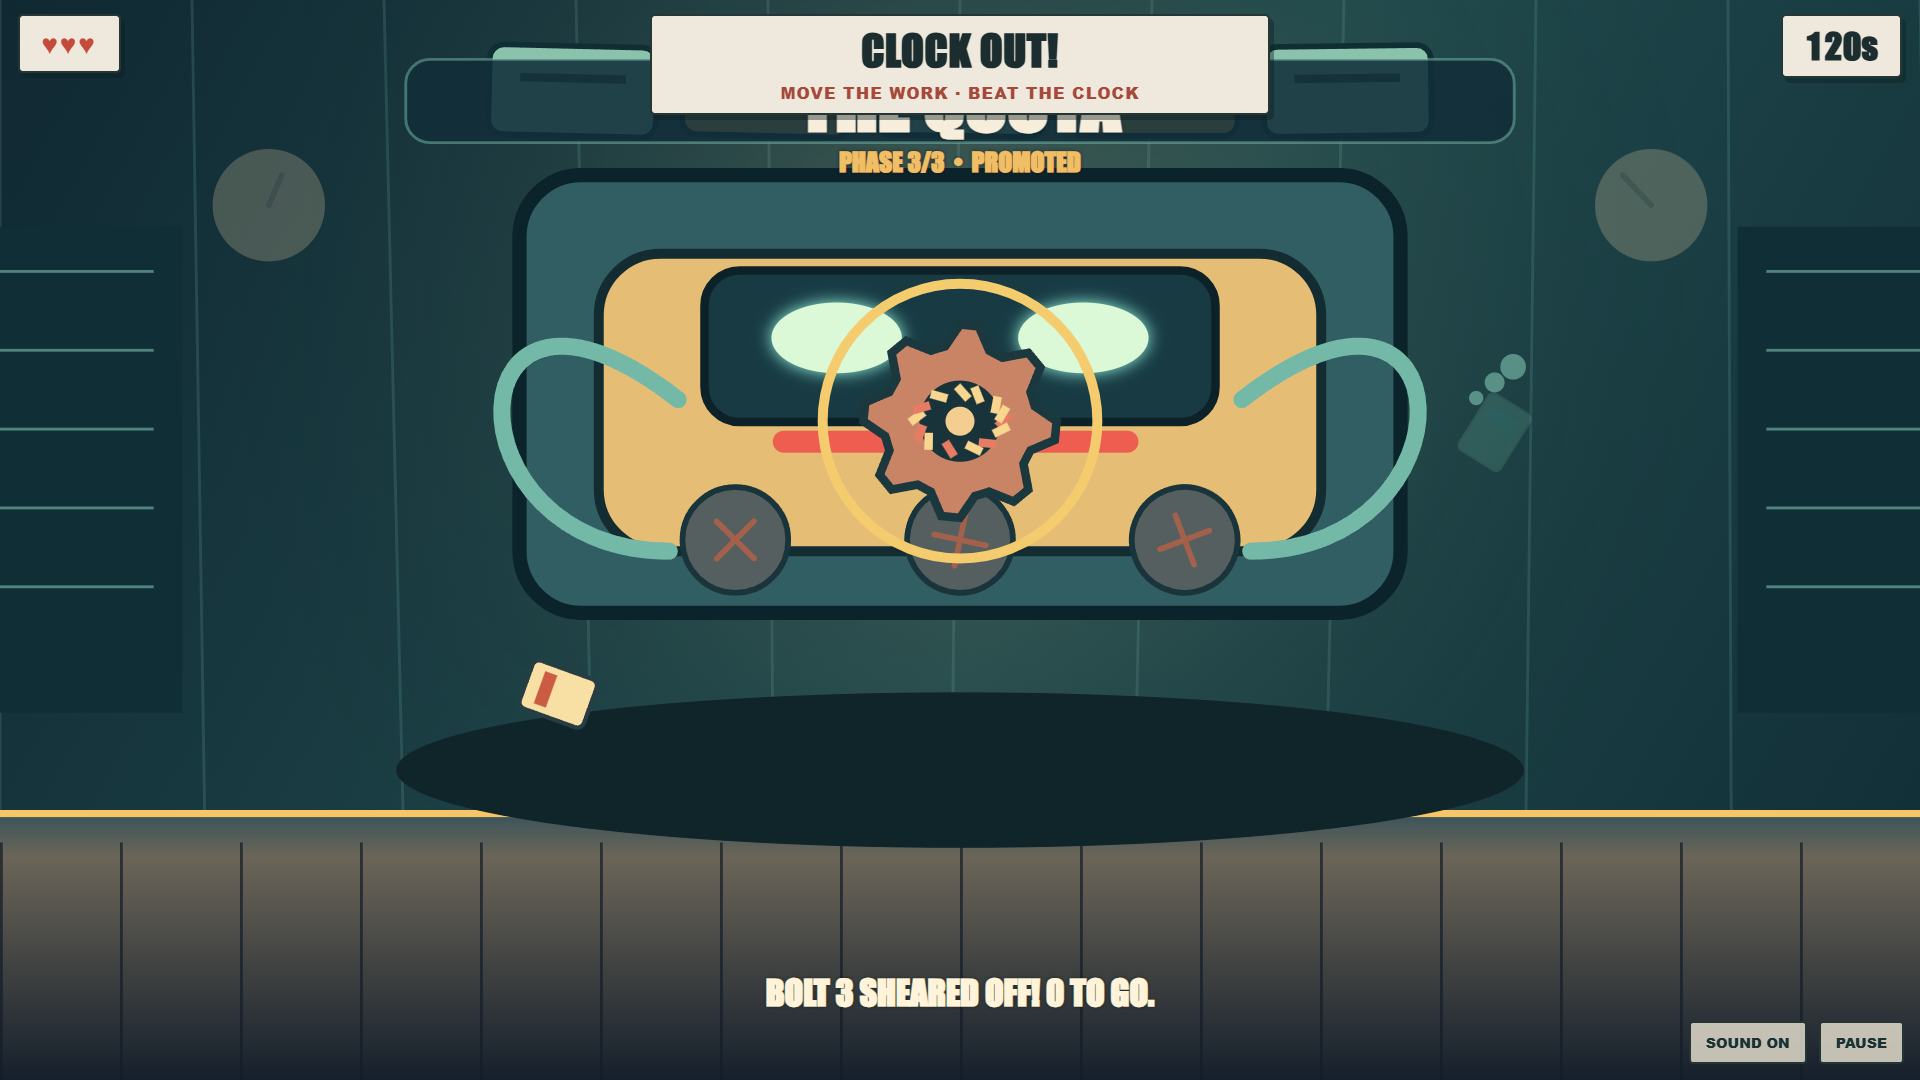
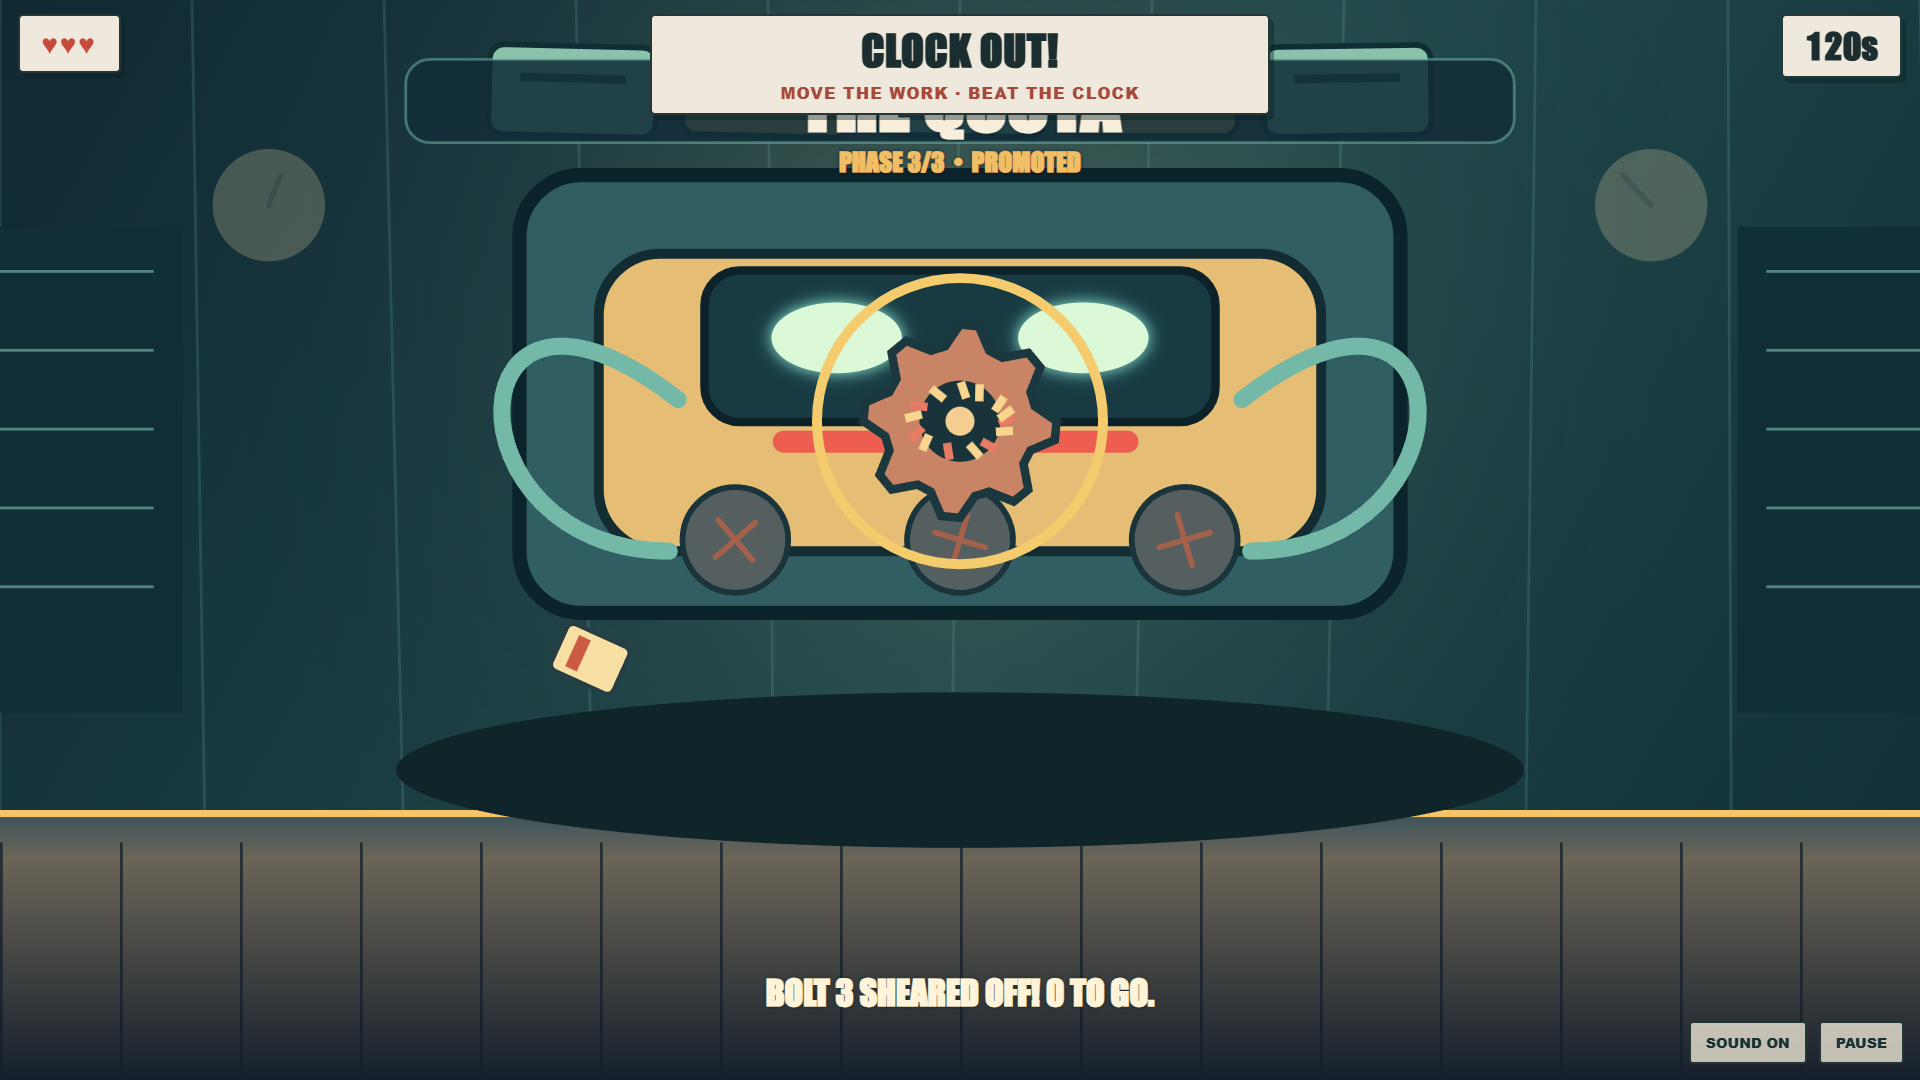
test(v3): recheck latest unmodified lead and refresh Chrome screenshots

diff --git a/coordination/reports/wrap-fullrun-1323.md b/coordination/reports/wrap-fullrun-1323.md
@@ -57,3 +57,10 @@ An earlier diagnostic run intermittently failed the original **test driver's** o
 3. Separately finish public link, viewport/audio comparison, and 16-card seeded campaign/retries. This report proves one 12-card run and replay, **not** independent human fun, published URL or all release gates.
 
 No edits to main, Night Shift HD, protected Windows recovery worktrees or Canvas.
+
+## Follow-up: current LEAD branch passes without local gameplay patches (13:53 AEDT)
+
+Re-fetched `agents/v3-lead-systems-bridge-1109` and checked out **8a3f6fce4a83c4c9b0e3143dbc5162a885e7587a** in the isolated test checkout. The runtime source was clean, with **no local one-line patch or other gameplay modification**. Ran `node qa/v3-wrap-fullrun-1323.browser.cjs` as-is: **PASS**. It verified 12 real committed cards, both three-cycle bosses, five promotions, four QUOTA packets and zero browser/page errors; one actual safe QUOTA routing drag. The frozen receipt was visible, Official Quota **83/100** and People & Quality **61/100**. Flip Receipt, How Counted and Replay all worked. Replay returned to I1 with a different deck, an empty ledger and no inherited victory score. The three PNG files in this PR have been refreshed from this unmodified 8a3f6fc branch.
+
+The undeclared-variable defect is **already corrected in lead PR #37's head**, but has not been established as merged into the shared integration branch. The original failed reproduction above remains historical verified evidence, not a claim that the current lead branch still fails.
+
